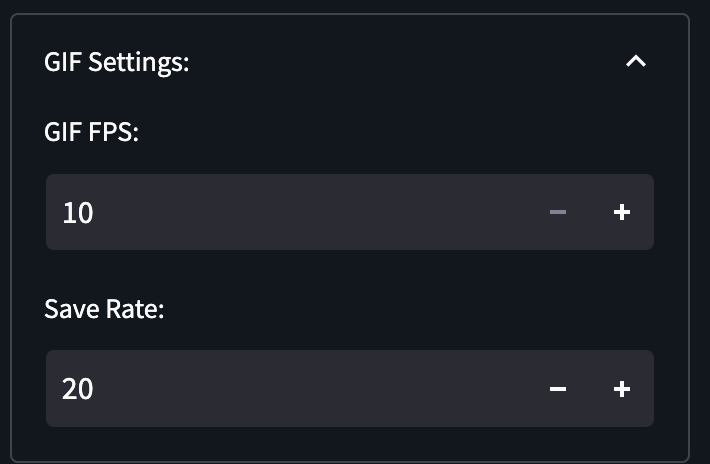
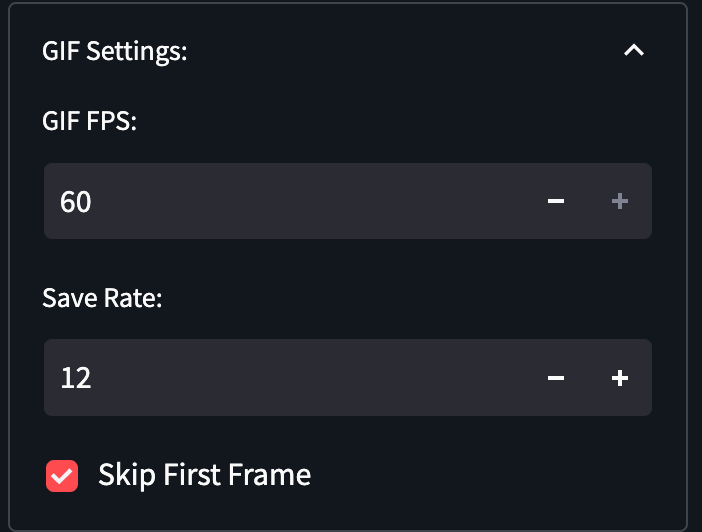
feat: skip first frame of gif

diff --git a/gui.py b/gui.py
@@ -60,6 +60,7 @@ create_response_array = []
 STEPS_DEFAULT = 200
 GIF_FPS_DEFAULT = 10
 SAVE_RATE_DEFAULT = 20
+GIF_SKIP_FIRST_FRAME = True
 
 CUT_IC_POW_DEFAULT = 1
 CLAMP_MAX_DEFAULT = 0.05
@@ -233,6 +234,9 @@ async def preview_handler_wait():
 def gif_generator(image_docarray: list()):
     progress_gif_slides = []
     for chunk_index, chunk in enumerate(image_docarray[-1].chunks):
+        if st.session_state.get('gif_skip_first_frame', default = GIF_SKIP_FIRST_FRAME):
+            if chunk_index == 0:
+                continue
         chunk.load_uri_to_blob()
 
         # Add ID to the image
@@ -472,6 +476,8 @@ def main():
     save_rate_maximum = st.session_state.get('steps', default = STEPS_DEFAULT) - st.session_state.get('skip_steps', default = SKIP_STEPS_DEFAULT)
 
     gif_settings.number_input(label="Save Rate:", min_value=1, max_value=save_rate_maximum, value=SAVE_RATE_DEFAULT, key="save_rate")
+
+    gif_settings.checkbox(label="Skip First Frame", value=GIF_SKIP_FIRST_FRAME, key="gif_skip_first_frame")
 
     # past_image = past_images_tab.empty()
     # left_past_images_tab, right_past_images_tab = past_images_tab.columns([10,1])

diff --git a/Guide.md b/Guide.md
@@ -194,6 +194,8 @@ The `Init Image` is used to upload the initial image. You can also adjust the fo
 
 The FPS of the generated GIF and the step recording rate can be adjusted here. Changes to these parameters will affect the resulting progress GIF. 
 
+The first frame of the GIF is skipped to decrease the strobe effect, it can be placed back by unchecking the **Skip First Frame** and using the Past Images tab. 
+
 ![GIF Settings](images/gif_settings.png)
 
 ## Custom Models
